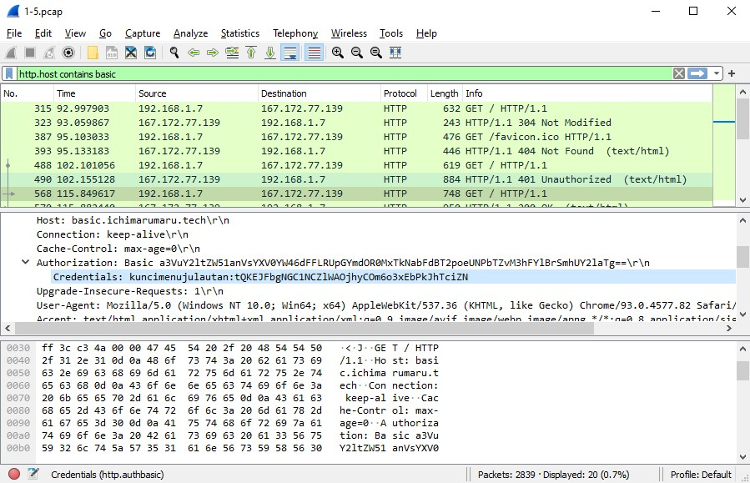
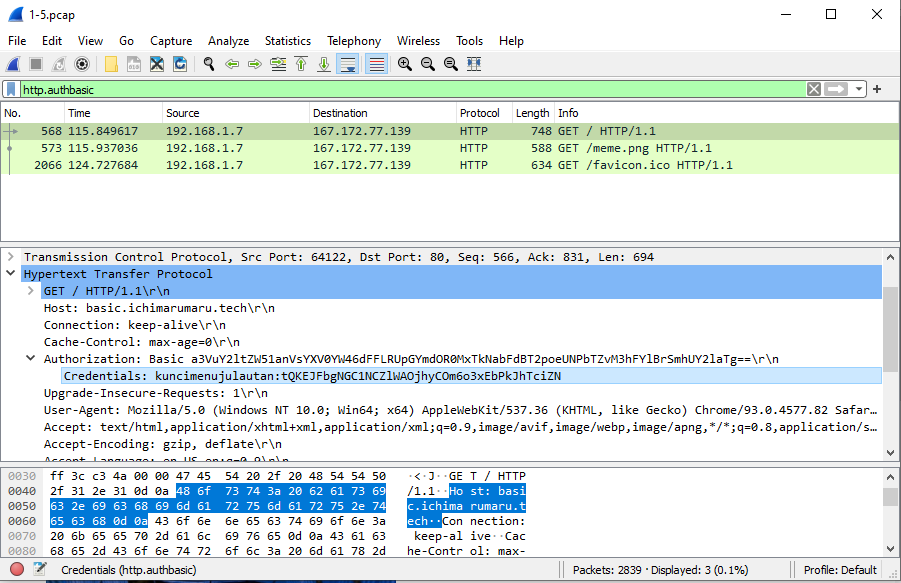
1 - 5 done

diff --git a/README.md b/README.md
@@ -5,6 +5,14 @@
 ### Soal
 
 Sebutkan webserver yang digunakan pada "ichimarumaru.tech"!
+- Untuk mencari webservernya pertama kita bisa menggunakan display filter `http.host == ichimarumaru.tech`
+  ![1a](screenshots/1a.png)
+
+- Setelah itu, lakukan follow pada HTTP streamnya
+  ![1b](screenshots/1b.png)
+
+- Lalu, muncullah web server dari host yang dicari
+  ![1c](screenshots/1c.png)
 
 ## No 2
 
@@ -12,11 +20,20 @@ Sebutkan webserver yang digunakan pada "ichimarumaru.tech"!
 
 Temukan paket dari web-web yang menggunakan basic authentication method!
 
+- Untuk mencari web yang menggunakan basic authentication method, dapat digunakan display filter `http.authbasic`
+  ![2](screenshots/2a.png)
+
 ## No 3
 
 ### Soal
 
 Ikuti perintah di basic.ichimarumaru.tech! Username dan password bisa didapatkan dari file .pcapng!
+
+- Lakukan display filter menggunakan `http.authbasic` dan cari credetials di dalam bagian authentication, bagian kiri sebelum ':' adalah username dan bagian lainnya adalah password
+  ![3a](screenshots/3a.png)
+
+- Setelah dimasukkan ke dalam basic.ichimarumaru.tech, website menampilkan soal mengenai pengkabelan T568A.
+  ![3b](screenshots/3b.png)
 
 ## No 4
 
@@ -24,11 +41,20 @@ Ikuti perintah di basic.ichimarumaru.tech! Username dan password bisa didapatkan
 
 Temukan paket mysql yang mengandung perintah query select!
 
+- Untuk mencari paket mysql mengandung query select, dapat digunakan display filter `mysql.query matches select`
+  ![4](screenshots/4a.png)
+
 ## No 5
 
 ### Soal
 
 Login ke portal.ichimarumaru.tech kemudian ikuti perintahnya! Username dan password bisa didapat dari query insert pada table users dari file .pcap!
+
+- Untuk mencari query insert, dapat menggunakan display filter seperti pada no 4 yaitu `mysql.query matches insert`, setelah itu bisa kita lihat pada bagian statement dari sqlnya terdapat username dan password.
+  ![5a](screenshots/5a.png)
+  
+- Setelah login terdapat soal mengenai pengkabelan T658B
+  ![5b](screenshots/5b.png)
 
 ## No 6
 
